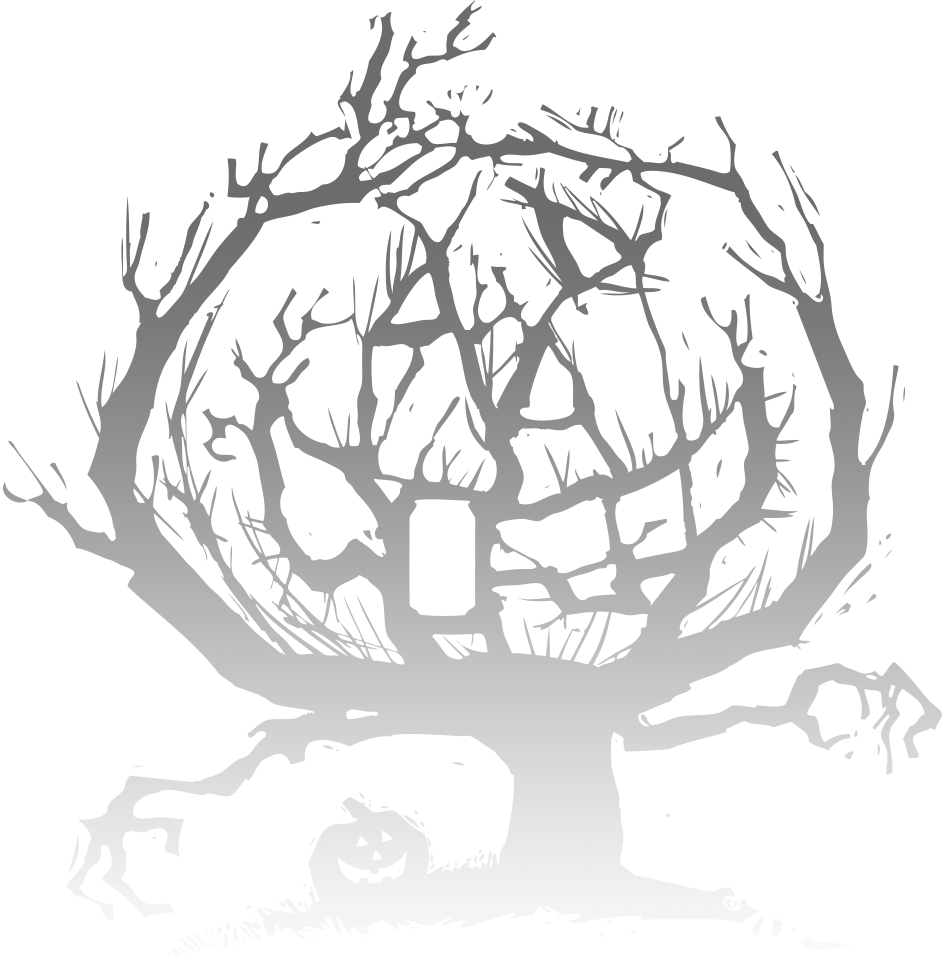
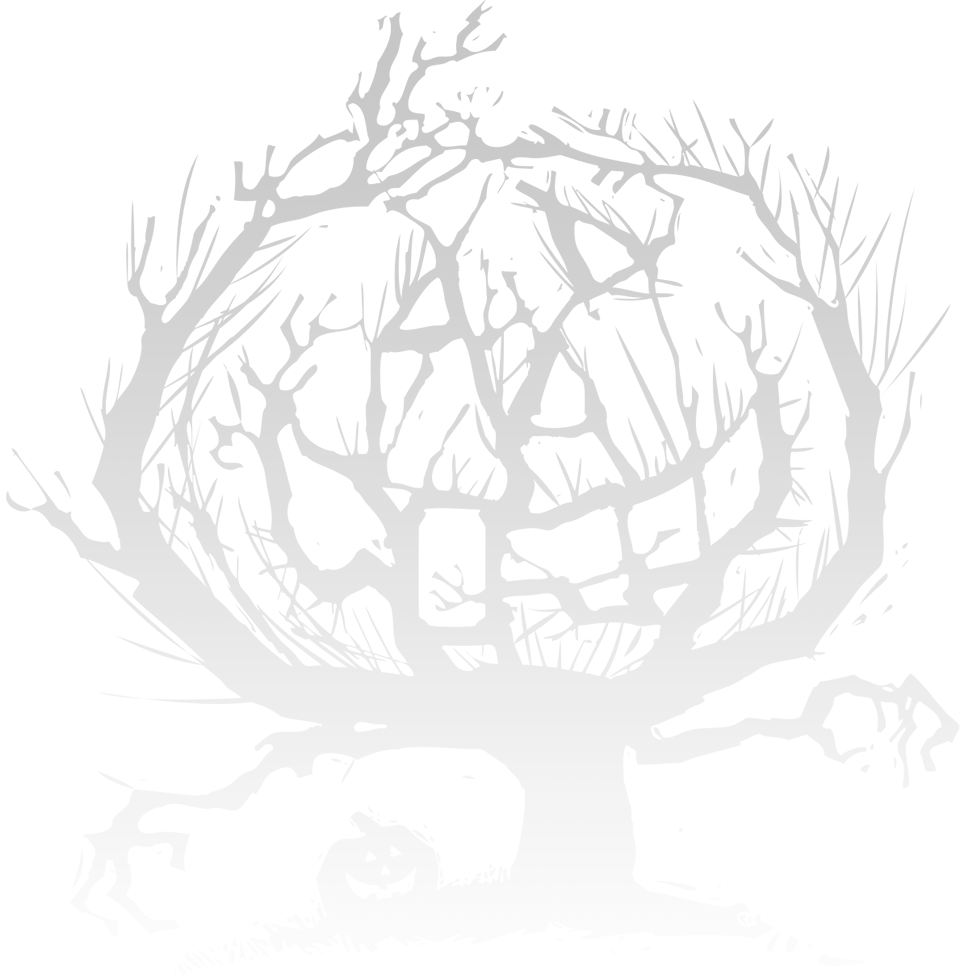
Beer updates: - Adds updated colors for Pumpcan and Thundersnow - Removes Pumpcan tap handle as colors did not match - Adds Bourbon Barrel Aged Axis Mundi tap handle

Changed region(s): [[0.0, 0.0, 1.0, 0.8779], [0.0, 0.4541, 0.0305, 0.4843]]

diff --git a/source/stylesheets/pages/_thundersnow.scss b/source/stylesheets/pages/_thundersnow.scss
@@ -17,9 +17,9 @@ body.thundersnow {
     background: transparentize($thundersnow-alt, .05);
     &.section-navbar {
       background: $thundersnow-alt;
-    background: transparentize($thundersnow-alt, .2);
+    background: transparentize($thundersnow-nav, .2);
       a {
-        color: $thundersnow;
+        color: $thundersnow-alt;
       }
       li.active {
        > a {
@@ -67,18 +67,18 @@ body.thundersnow {
     }
   }
   .site-footer {
-    background: $thundersnow-alt;
+    background: $thundersnow-nav;
     a {
-      color: $thundersnow;
+      color: $thundersnow-alt;
     }
   }
   .nav-item-header {
     h4 {
-      color: $white;
+      color: $thundersnow;
     }
   }
   .nav-item-body {
-    color: $thundersnow;
+    color: $thundersnow-alt;
   }
   .beer-stats {
     border-color: transparentize($thundersnow-alt, .2);

diff --git a/source/stylesheets/partials/_base.scss b/source/stylesheets/partials/_base.scss
@@ -45,14 +45,14 @@ $galaxy-high-alt:       #2F699A;
 $galaxy-high-nav:       #719ABD;
 
 
-$great-pumpcan:         #FC4F1E;
-$great-pumpcan-alt:     #000;
-$great-pumpcan-nav:     #8A1F0F;
+$great-pumpcan:         #FD7922;
+$great-pumpcan-alt:     #7B2926;
+$great-pumpcan-nav:     #FADC41;
 
 
-$thundersnow:           #189AD0;
-$thundersnow-alt:       #000;
-$thundersnow-nav:       #FFF;
+$thundersnow:           #1CA9E0;
+$thundersnow-alt:       #022244;
+$thundersnow-nav:       #A1DEE9;
 
 $wheateater:            #FDC46D;
 $wheateater-alt:        #000;

diff --git a/source/stylesheets/pages/_pumpcan.scss b/source/stylesheets/pages/_pumpcan.scss
@@ -1,5 +1,5 @@
 body.the-great-pumpcan {
-  @include background($great-pumpcan image-url('backgrounds/bg-beer-default.png') no-repeat top right);
+  @include background($great-pumpcan image-url('backgrounds/bg-pumpcan.png') no-repeat top right);
   .caret {
     border-top-color: $great-pumpcan;
   }
